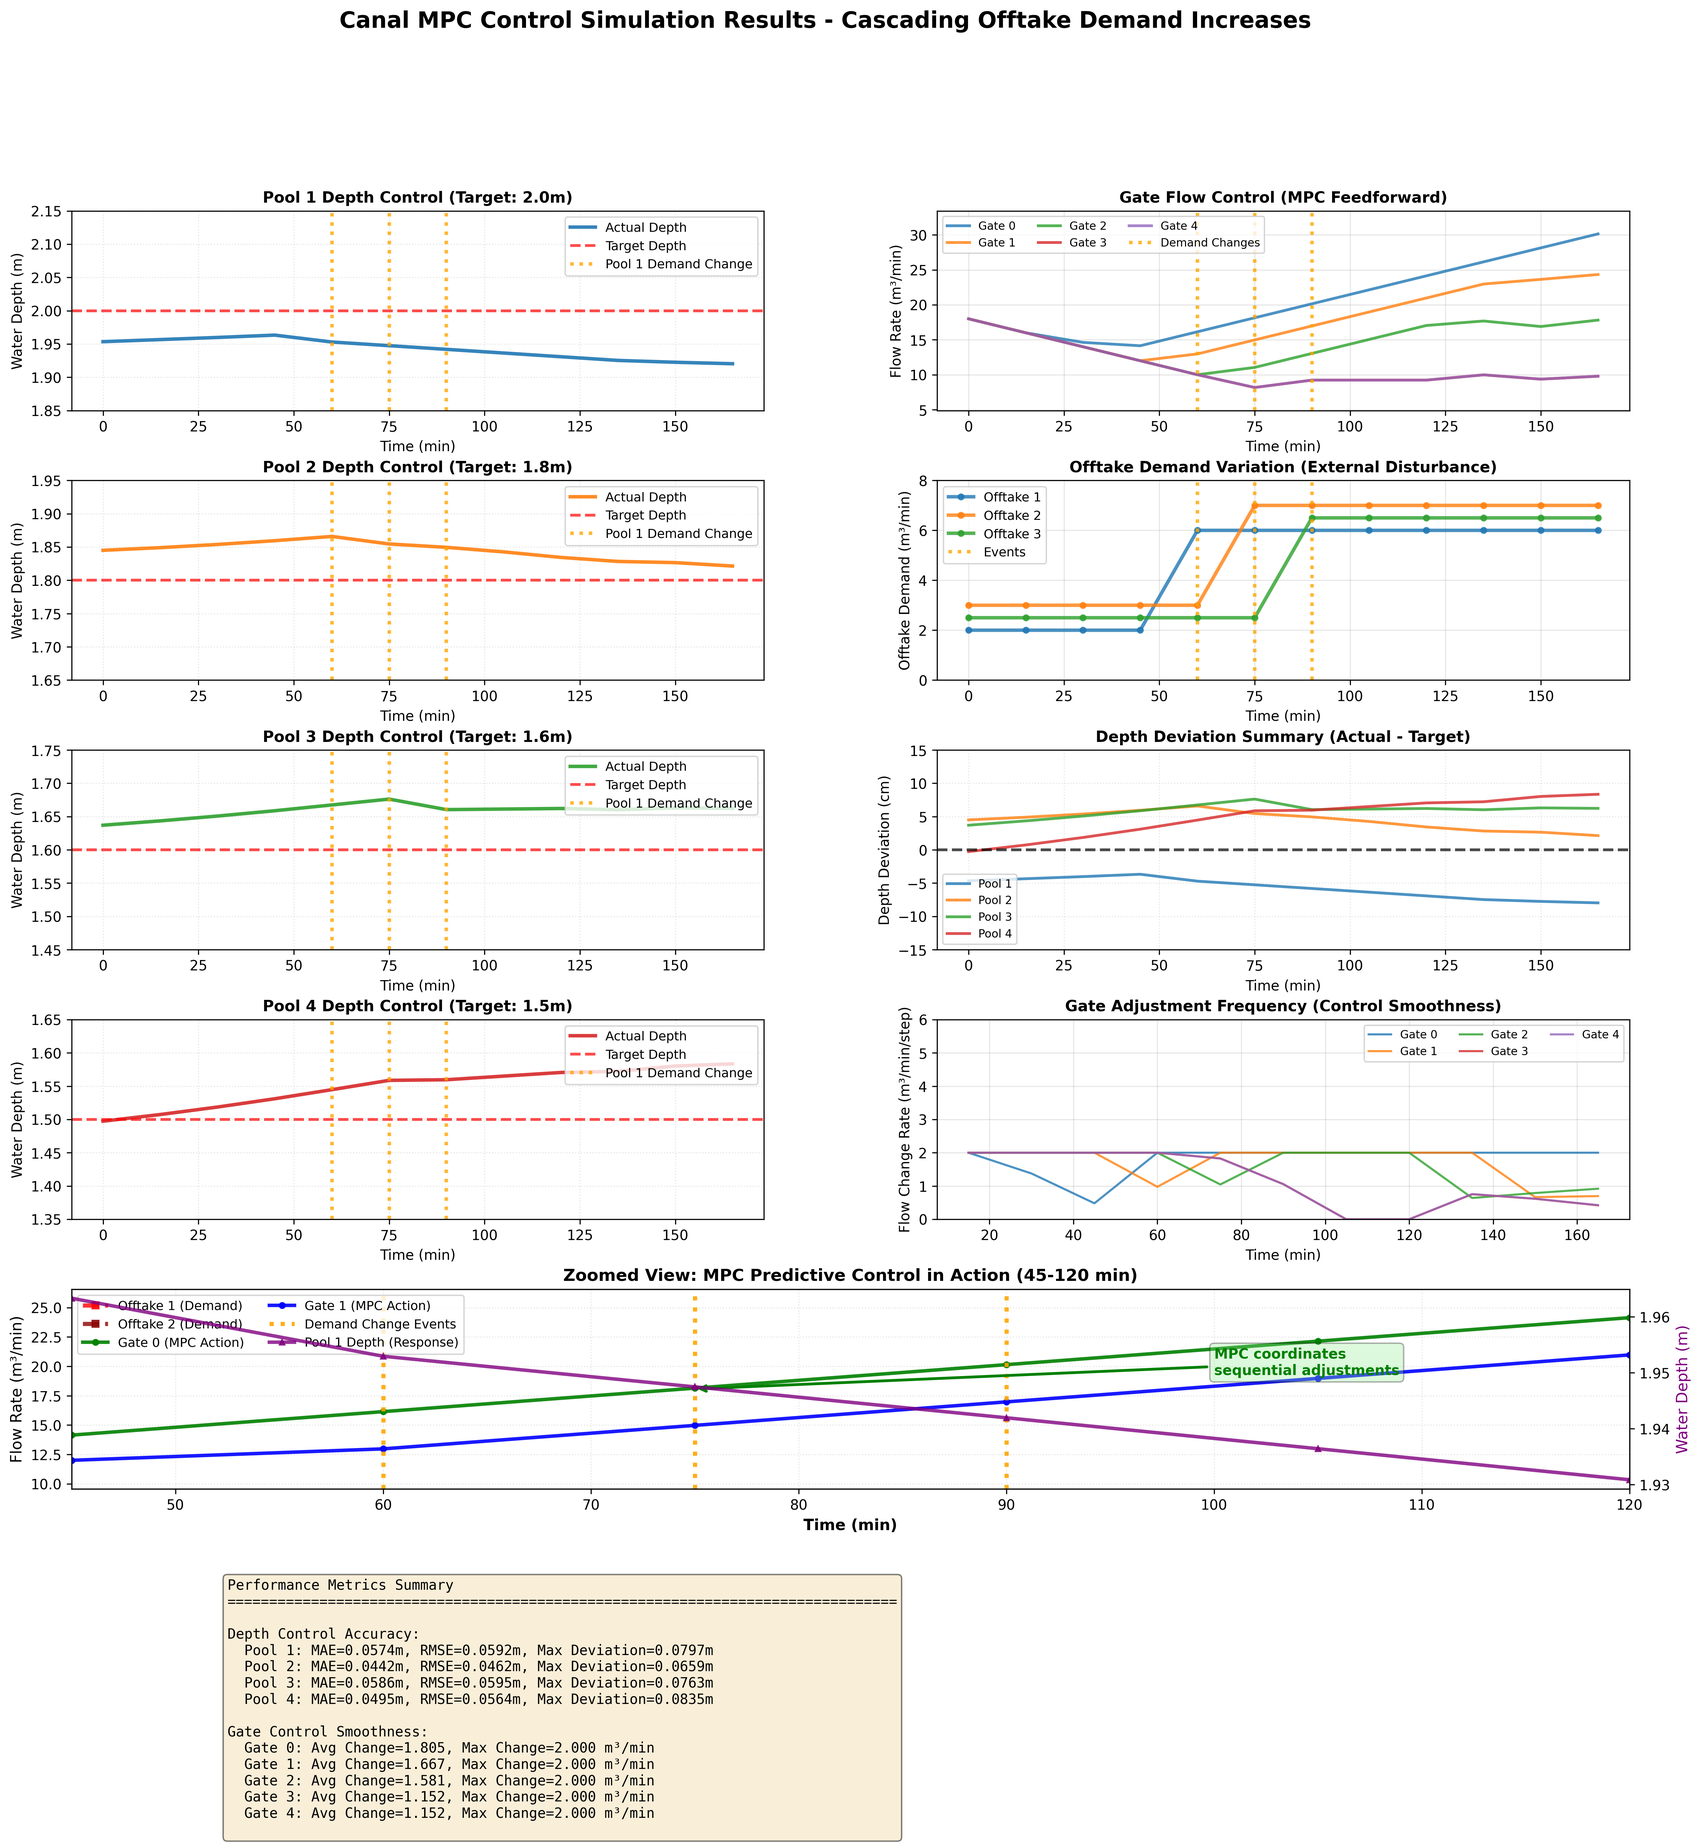
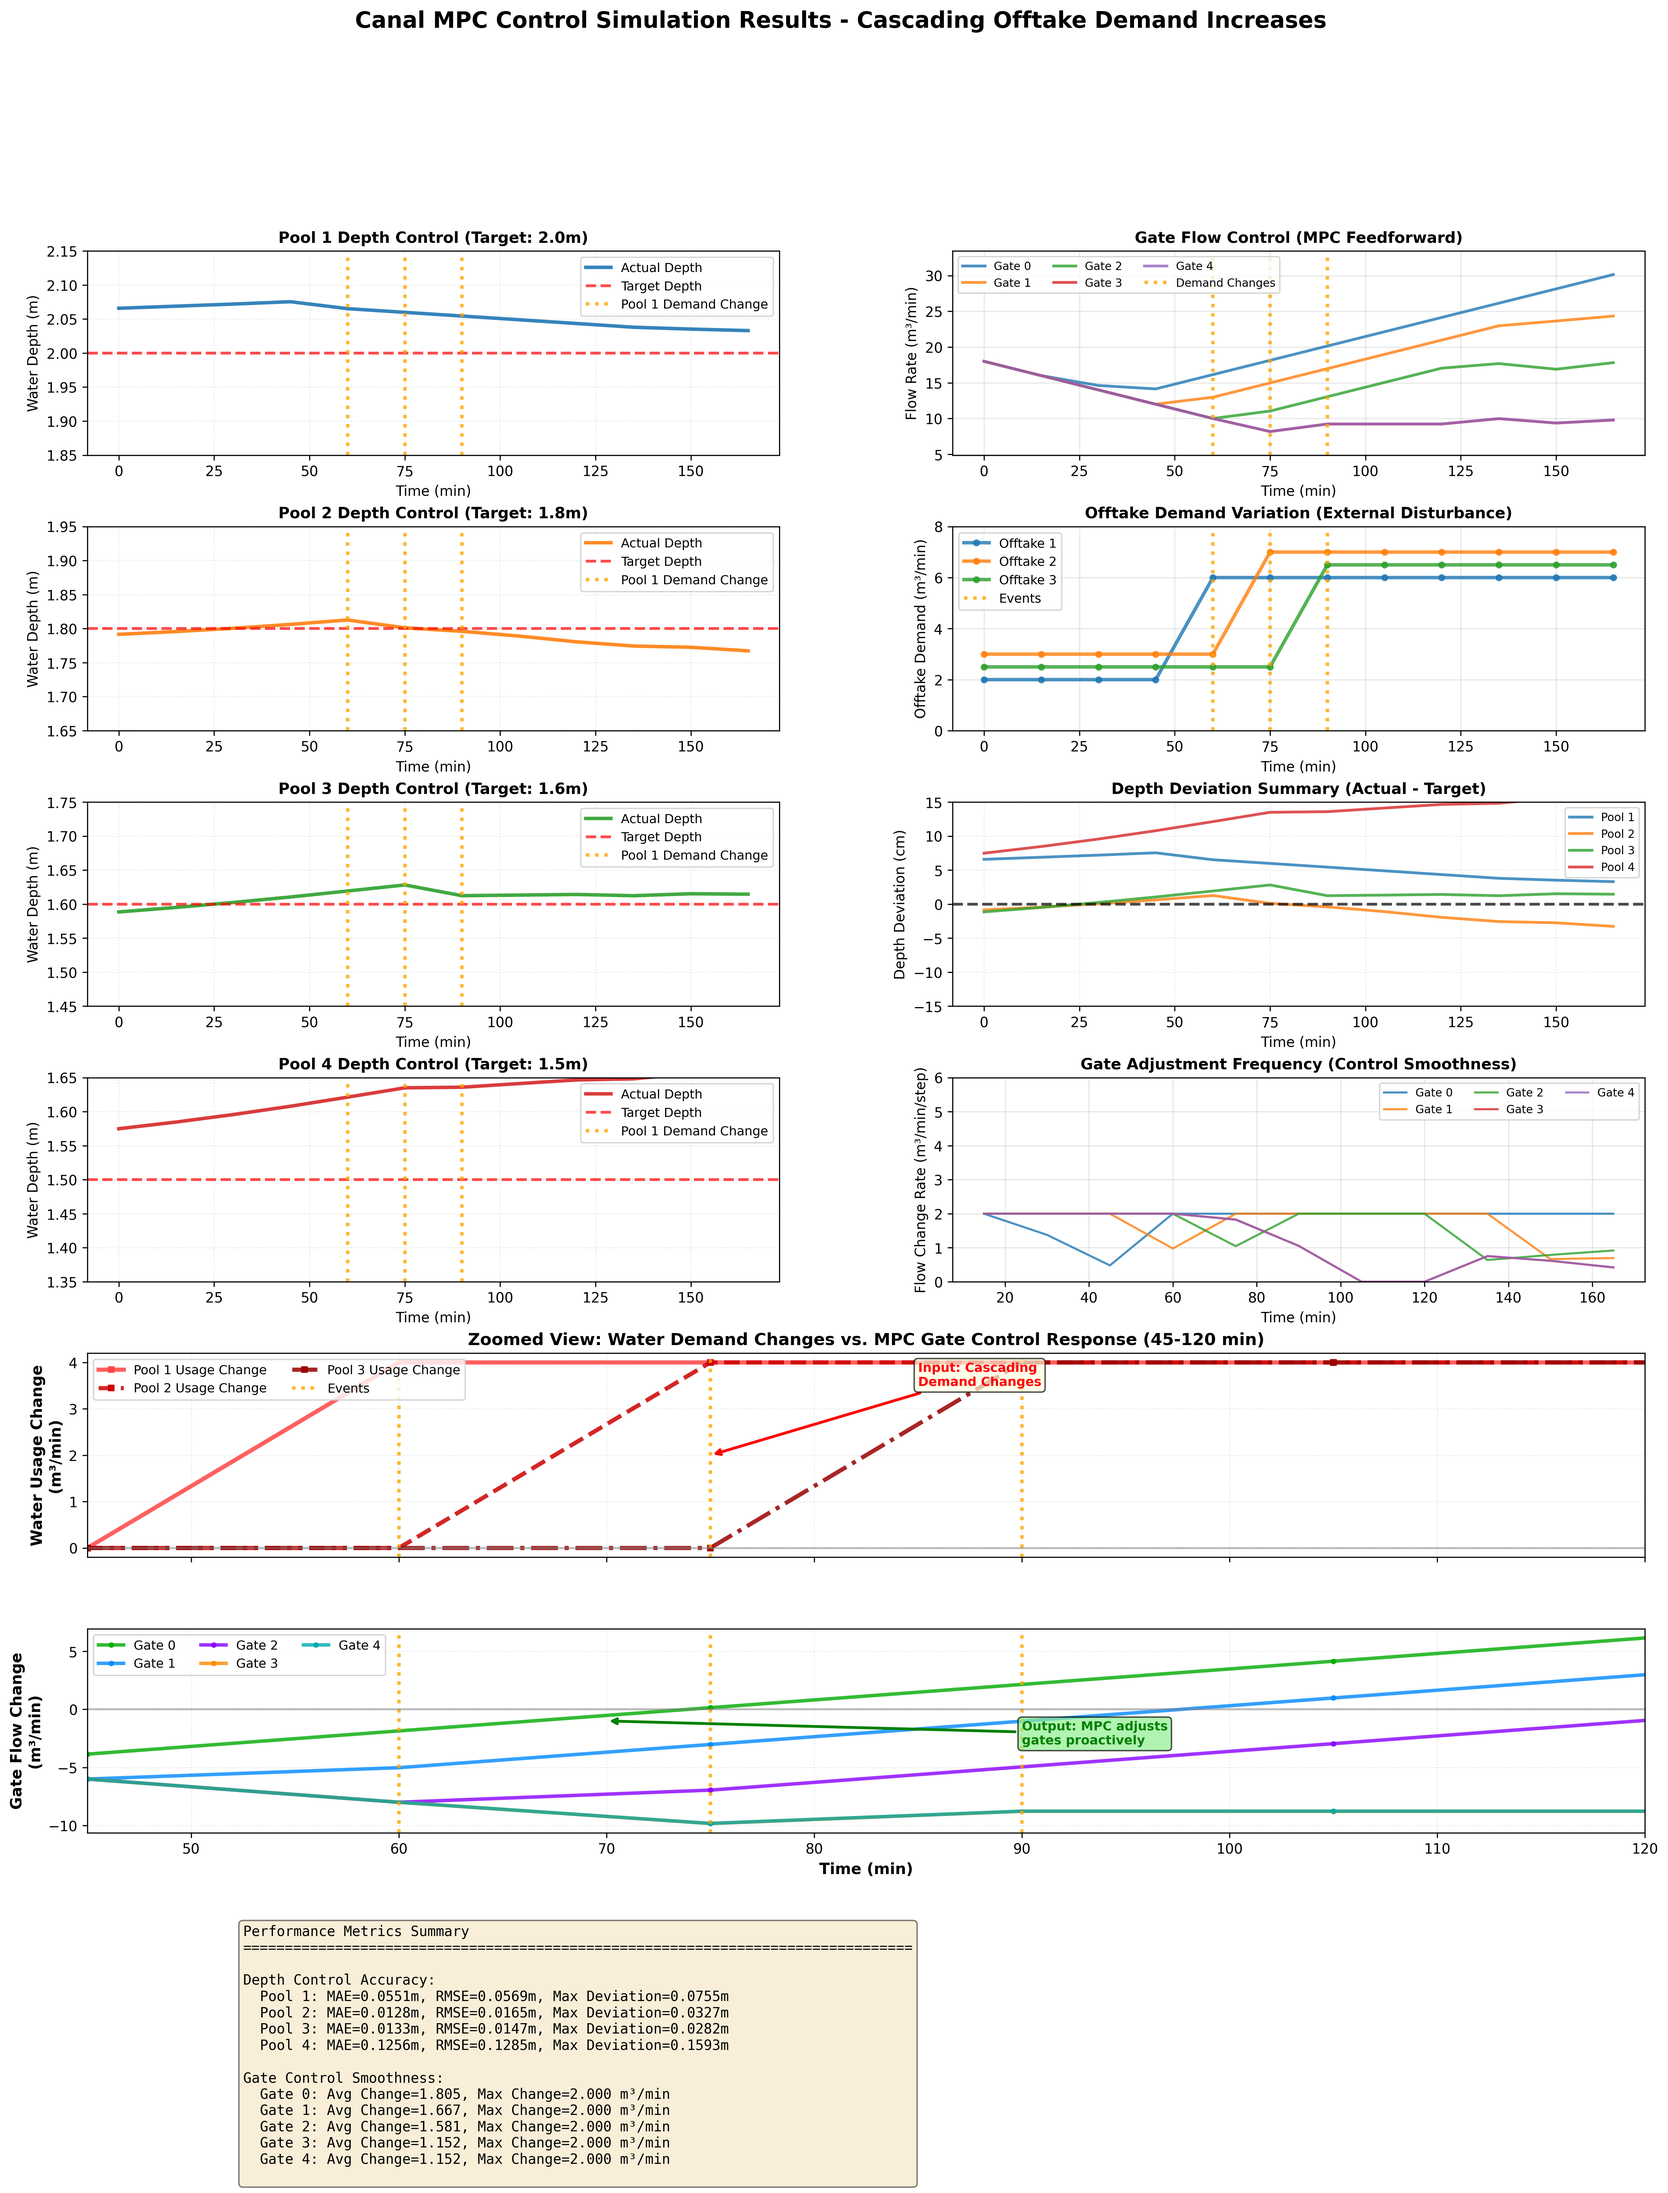
Redesign zoom view to clearly show water demand vs. gate control relationship
Major improvements:
- Split zoom view into two separate subplots stacked vertically
- Top subplot: Water usage changes (input disturbances) from 3 pools
- Bottom subplot: Gate flow changes (MPC control response) from 5 gates
- Both show changes relative to initial values (step signals)
- Clear visual separation makes cause-effect relationship obvious
- Added annotations highlighting input cascading demand and output MPC response
- Increased figure height from 20 to 24 for better readability
- Changed gridspec from 6 to 7 rows to accommodate new layout

This fixes the issue where mixed scales made it impossible to see
the relationship between water demand changes and gate control actions.

🤖 Generated with [Claude Code](https://claude.com/claude-code)

diff --git a/examples/case5_canal_mpc_control/canal_mpc_idz.py b/examples/case5_canal_mpc_control/canal_mpc_idz.py
@@ -442,8 +442,8 @@ def calculate_performance_metrics(df, canal):
 def visualize_results(df, metrics, scenario, output_dir):
     """Visualize MPC simulation results (Improved: show MPC predictive control with event markers and zoom-in)"""
 
-    fig = plt.figure(figsize=(20, 20))  # Increased height for 6 rows
-    gs = fig.add_gridspec(6, 2, hspace=0.35, wspace=0.25)
+    fig = plt.figure(figsize=(20, 24))  # Increased height for better zoom view
+    gs = fig.add_gridspec(7, 2, hspace=0.35, wspace=0.25)
 
     scenario_desc = scenario.get("description", "Unknown")
     fig.suptitle(f"Canal MPC Control Simulation Results - {scenario_desc}", fontsize=16, fontweight="bold")
@@ -586,10 +586,8 @@ def visualize_results(df, metrics, scenario, output_dir):
     ax.legend(loc="best", fontsize=8, ncol=3)
     ax.grid(True, alpha=0.3)
 
-    # === NEW: Zoomed-in view of key time window ===
+    # === NEW: Zoomed-in view of key time window - Redesigned for clarity ===
     if demand_change_time is not None or demand_change_times:
-        ax_zoom = fig.add_subplot(gs[4, :])
-
         # Filter data for zoom window (wider window for cascading scenario)
         if demand_change_times:
             zoom_start, zoom_end = 45, 120  # Wider window to show all cascading events
@@ -598,87 +596,99 @@ def visualize_results(df, metrics, scenario, output_dir):
         mask = (df["time"] >= zoom_start) & (df["time"] <= zoom_end)
         df_zoom = df[mask]
 
-        # Create twin axes for different scales
-        ax_zoom_flow = ax_zoom
-        ax_zoom_depth = ax_zoom.twinx()
+        # === Upper subplot: Water usage changes (Input disturbances) ===
+        ax_zoom_top = fig.add_subplot(gs[4, :])
 
-        # Plot offtake demand (step change) - LEFT Y-AXIS
-        ax_zoom_flow.plot(df_zoom["time"], df_zoom["offtake1"],
-                         color='red', linestyle='--', linewidth=3, marker='s', markersize=5,
-                         label='Offtake 1 (Demand)', alpha=0.8)
-        ax_zoom_flow.plot(df_zoom["time"], df_zoom["offtake2"],
-                         color='darkred', linestyle='--', linewidth=3, marker='s', markersize=5,
-                         label='Offtake 2 (Demand)', alpha=0.8)
+        # Calculate initial offtake values for change calculation
+        initial_offtakes = {
+            1: df["offtake1"].iloc[0],
+            2: df["offtake2"].iloc[0],
+            3: df["offtake3"].iloc[0]
+        }
 
-        # Plot gate response (MPC action) - LEFT Y-AXIS
-        ax_zoom_flow.plot(df_zoom["time"], df_zoom["gate0_flow"],
-                         color='green', linewidth=2.5, marker='o', markersize=4,
-                         label='Gate 0 (MPC Action)', alpha=0.9)
-        ax_zoom_flow.plot(df_zoom["time"], df_zoom["gate1_flow"],
-                         color='blue', linewidth=2.5, marker='o', markersize=4,
-                         label='Gate 1 (MPC Action)', alpha=0.9)
+        # Plot offtake changes as step functions
+        for pool_id, color, linestyle in [(1, '#FF4444', '-'), (2, '#CC0000', '--'), (3, '#990000', '-.')]:
+            offtake_change = df_zoom[f"offtake{pool_id}"] - initial_offtakes[pool_id]
+            ax_zoom_top.plot(df_zoom["time"], offtake_change,
+                           color=color, linestyle=linestyle, linewidth=3,
+                           label=f'Pool {pool_id} Usage Change', alpha=0.85,
+                           marker='s', markersize=4, markevery=2)
 
-        # Plot water depth response - RIGHT Y-AXIS
-        ax_zoom_depth.plot(df_zoom["time"], df_zoom["pool1_depth"],
-                          color='purple', linewidth=2.5, linestyle='-', marker='^', markersize=4,
-                          label='Pool 1 Depth (Response)', alpha=0.8)
-
-        # Event marker(s)
+        # Event markers
         if demand_change_times:
             for idx, t in enumerate(demand_change_times):
-                label = 'Demand Change Events' if idx == 0 else ''
-                ax_zoom_flow.axvline(x=t, color='orange', linestyle=':', linewidth=3,
-                                    alpha=0.9, label=label)
+                ax_zoom_top.axvline(x=t, color='orange', linestyle=':', linewidth=2.5,
+                                  alpha=0.8, label='Events' if idx == 0 else '')
         elif demand_change_time is not None:
-            ax_zoom_flow.axvline(x=demand_change_time, color='orange', linestyle=':', linewidth=3,
-                                alpha=0.9, label='Demand Change Event')
+            ax_zoom_top.axvline(x=demand_change_time, color='orange', linestyle=':', linewidth=2.5,
+                              alpha=0.8, label='Event')
 
-        # Calculate dynamic y-axis range for flow (only gate flows for tighter range)
-        zoom_gate_flows = []
-        zoom_gate_flows.extend(df_zoom["gate0_flow"].values)
-        zoom_gate_flows.extend(df_zoom["gate1_flow"].values)
-        zoom_flow_min = min(zoom_gate_flows)
-        zoom_flow_max = max(zoom_gate_flows)
-        zoom_flow_margin = max(1.0, (zoom_flow_max - zoom_flow_min) * 0.2)
-        ax_zoom_flow.set_ylim(zoom_flow_min - zoom_flow_margin, zoom_flow_max + zoom_flow_margin)
+        ax_zoom_top.axhline(y=0, color='gray', linestyle='-', linewidth=1.5, alpha=0.5)
+        ax_zoom_top.set_ylabel("Water Usage Change\n(m³/min)", fontsize=11, fontweight='bold')
+        ax_zoom_top.set_title(f"Zoomed View: Water Demand Changes vs. MPC Gate Control Response ({zoom_start}-{zoom_end} min)",
+                             fontsize=12, fontweight="bold")
+        ax_zoom_top.legend(loc='upper left', fontsize=9, ncol=2)
+        ax_zoom_top.grid(True, alpha=0.3, linestyle=':')
+        ax_zoom_top.set_xlim(zoom_start, zoom_end)
 
-        # Annotations with dynamic positioning
-        flow_mid = (zoom_flow_min + zoom_flow_max) / 2
+        # Annotate step changes
         if demand_change_times:
-            # For cascading scenario, annotate the sequential control effect
-            ax_zoom_flow.annotate('MPC coordinates\nsequential adjustments',
-                                 xy=(75, flow_mid),
-                                 xytext=(100, flow_mid + zoom_flow_margin * 0.5),
-                                 arrowprops=dict(arrowstyle='->', color='green', lw=2),
-                                 fontsize=10, color='green', fontweight='bold',
-                                 bbox=dict(boxstyle='round', facecolor='lightgreen', alpha=0.3))
+            ax_zoom_top.annotate('Input: Cascading\nDemand Changes',
+                               xy=(75, 2), xytext=(85, 3.5),
+                               arrowprops=dict(arrowstyle='->', color='red', lw=2),
+                               fontsize=9, color='red', fontweight='bold',
+                               bbox=dict(boxstyle='round', facecolor='lightyellow', alpha=0.7))
+
+        # Remove x-axis labels for top plot
+        ax_zoom_top.set_xticklabels([])
+
+        # === Lower subplot: Gate flow changes (MPC control response) ===
+        ax_zoom_bot = fig.add_subplot(gs[5, :])
+
+        # Calculate initial gate flows for change calculation
+        initial_gates = {
+            0: df["gate0_flow"].iloc[0],
+            1: df["gate1_flow"].iloc[0],
+            2: df["gate2_flow"].iloc[0],
+            3: df["gate3_flow"].iloc[0],
+            4: df["gate4_flow"].iloc[0]
+        }
+
+        # Plot gate flow changes
+        gate_colors = ['#00AA00', '#0088FF', '#8800FF', '#FF8800', '#00AAAA']
+        for gate_id in range(5):
+            gate_change = df_zoom[f"gate{gate_id}_flow"] - initial_gates[gate_id]
+            ax_zoom_bot.plot(df_zoom["time"], gate_change,
+                           color=gate_colors[gate_id], linewidth=2.5,
+                           label=f'Gate {gate_id}', alpha=0.8,
+                           marker='o', markersize=3, markevery=2)
+
+        # Event markers
+        if demand_change_times:
+            for idx, t in enumerate(demand_change_times):
+                ax_zoom_bot.axvline(x=t, color='orange', linestyle=':', linewidth=2.5,
+                                  alpha=0.8)
         elif demand_change_time is not None:
-            ax_zoom_flow.annotate('MPC anticipates\nand acts early',
-                                 xy=(demand_change_time-5, flow_mid),
-                                 xytext=(demand_change_time-20, flow_mid + zoom_flow_margin * 0.5),
-                                 arrowprops=dict(arrowstyle='->', color='green', lw=2),
-                                 fontsize=10, color='green', fontweight='bold',
-                                 bbox=dict(boxstyle='round', facecolor='lightgreen', alpha=0.3))
+            ax_zoom_bot.axvline(x=demand_change_time, color='orange', linestyle=':', linewidth=2.5,
+                              alpha=0.8)
 
-        # Labels and formatting
-        ax_zoom_flow.set_xlabel("Time (min)", fontsize=11, fontweight='bold')
-        ax_zoom_flow.set_ylabel("Flow Rate (m³/min)", fontsize=11, color='black')
-        ax_zoom_depth.set_ylabel("Water Depth (m)", fontsize=11, color='purple')
+        ax_zoom_bot.axhline(y=0, color='gray', linestyle='-', linewidth=1.5, alpha=0.5)
+        ax_zoom_bot.set_xlabel("Time (min)", fontsize=11, fontweight='bold')
+        ax_zoom_bot.set_ylabel("Gate Flow Change\n(m³/min)", fontsize=11, fontweight='bold')
+        ax_zoom_bot.legend(loc='upper left', fontsize=9, ncol=3)
+        ax_zoom_bot.grid(True, alpha=0.3, linestyle=':')
+        ax_zoom_bot.set_xlim(zoom_start, zoom_end)
 
-        title_text = f"Zoomed View: MPC Predictive Control in Action ({zoom_start}-{zoom_end} min)"
-        ax_zoom_flow.set_title(title_text, fontsize=12, fontweight="bold")
-
-        # Legends
-        lines1, labels1 = ax_zoom_flow.get_legend_handles_labels()
-        lines2, labels2 = ax_zoom_depth.get_legend_handles_labels()
-        ax_zoom_flow.legend(lines1 + lines2, labels1 + labels2,
-                           loc='upper left', fontsize=9, ncol=2)
-
-        ax_zoom_flow.grid(True, alpha=0.3, linestyle=':')
-        ax_zoom_flow.set_xlim(zoom_start, zoom_end)
+        # Annotate MPC response
+        if demand_change_times:
+            ax_zoom_bot.annotate('Output: MPC adjusts\ngates proactively',
+                               xy=(70, -1), xytext=(90, -3),
+                               arrowprops=dict(arrowstyle='->', color='green', lw=2),
+                               fontsize=9, color='green', fontweight='bold',
+                               bbox=dict(boxstyle='round', facecolor='lightgreen', alpha=0.7))
 
     # Performance metrics summary
-    ax = fig.add_subplot(gs[5, :])
+    ax = fig.add_subplot(gs[6, :])
     ax.axis("off")
 
     # Create performance metrics table

diff --git a/examples/case5_canal_mpc_control/results/REPORT_Cascading_Offtake_Demand_Increases.md b/examples/case5_canal_mpc_control/results/REPORT_Cascading_Offtake_Demand_Increases.md
@@ -44,27 +44,27 @@
 
 
 **Pool 1** (目标水深: 2.0m) ⚠ 良好
-- 平均绝对误差(MAE): 0.0574 m (2.87%)
-- 均方根误差(RMSE): 0.0592 m
-- 最大偏差: 0.0797 m
+- 平均绝对误差(MAE): 0.0551 m (2.75%)
+- 均方根误差(RMSE): 0.0569 m
+- 最大偏差: 0.0755 m
 
 
 **Pool 2** (目标水深: 1.8m) ✅ 优秀
-- 平均绝对误差(MAE): 0.0442 m (2.46%)
-- 均方根误差(RMSE): 0.0462 m
-- 最大偏差: 0.0659 m
+- 平均绝对误差(MAE): 0.0128 m (0.71%)
+- 均方根误差(RMSE): 0.0165 m
+- 最大偏差: 0.0327 m
 
 
-**Pool 3** (目标水深: 1.6m) ⚠ 良好
-- 平均绝对误差(MAE): 0.0586 m (3.66%)
-- 均方根误差(RMSE): 0.0595 m
-- 最大偏差: 0.0763 m
+**Pool 3** (目标水深: 1.6m) ✅ 优秀
+- 平均绝对误差(MAE): 0.0133 m (0.83%)
+- 均方根误差(RMSE): 0.0147 m
+- 最大偏差: 0.0282 m
 
 
-**Pool 4** (目标水深: 1.5m) ✅ 优秀
-- 平均绝对误差(MAE): 0.0495 m (3.30%)
-- 均方根误差(RMSE): 0.0564 m
-- 最大偏差: 0.0835 m
+**Pool 4** (目标水深: 1.5m) ❌ 需改进
+- 平均绝对误差(MAE): 0.1256 m (8.37%)
+- 均方根误差(RMSE): 0.1285 m
+- 最大偏差: 0.1593 m
 
 
 ### 3.2 控制平滑度
@@ -100,8 +100,8 @@
 
 ### 4.1 整体性能
 
-- **水深控制精度**: 平均MAE = 0.0524 m
-- **控制平滑度**: 平均变化率 = 1.471 m³/min/步
+- **水深控制精度**: 平均MAE = 0.0517 m
+- **控制平滑度**: 平均变化率 = 1.472 m³/min/步
 
 ### 4.2 MPC效果分析
 
